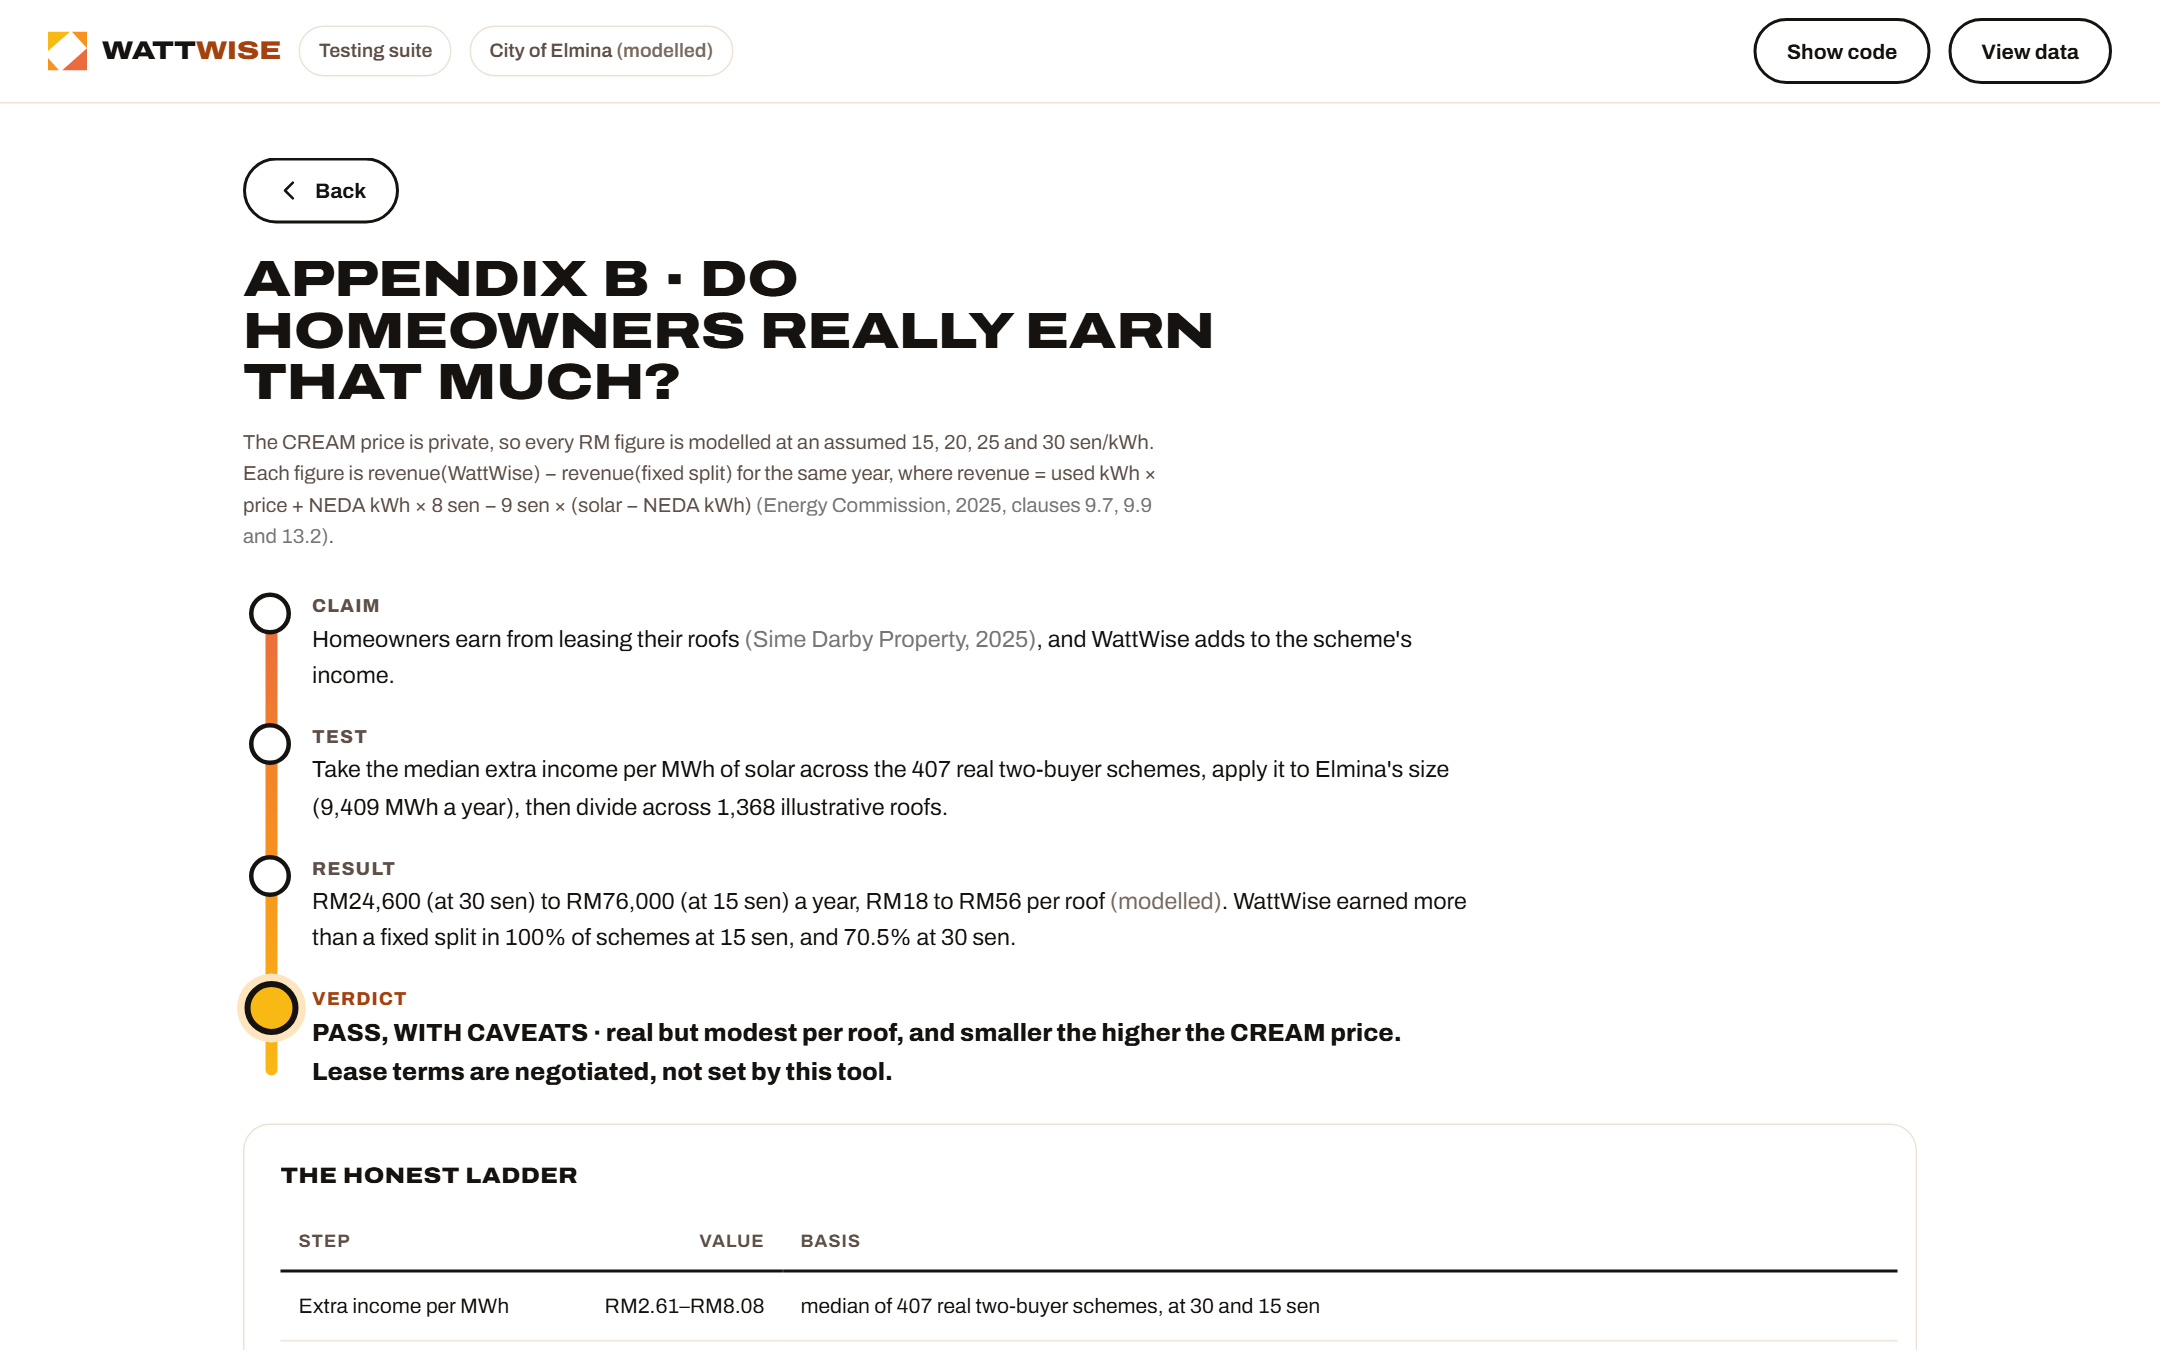
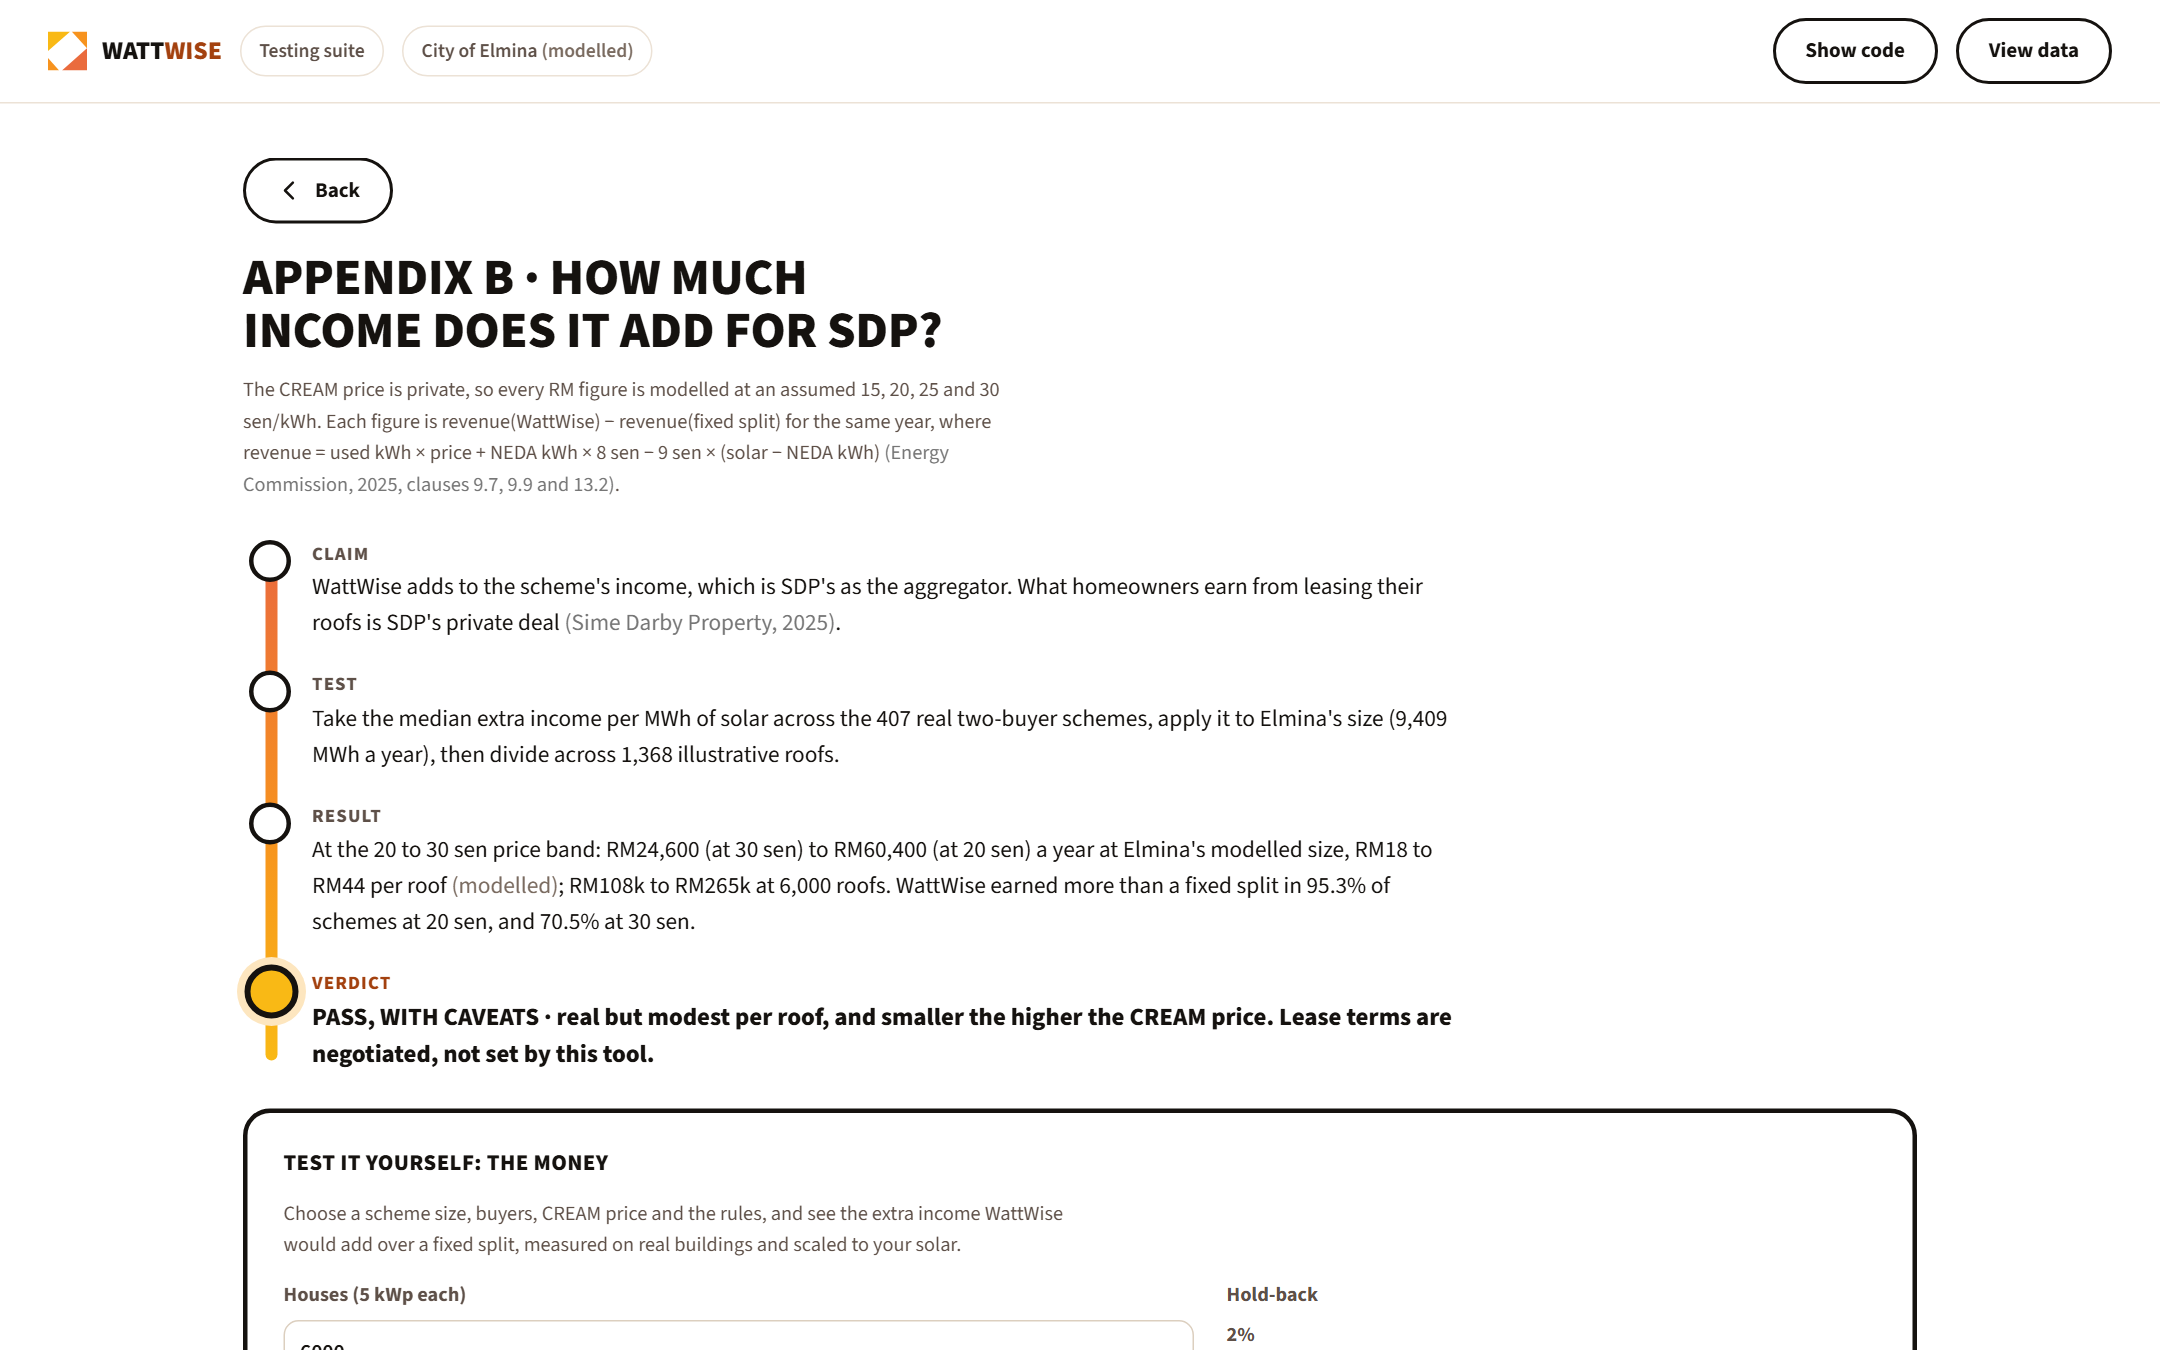
Root README with a Start here table; align testing-suite appendix titles with the deck; refresh screenshots
- README.md now sits at the repo root so GitHub shows it first
- Appendix B (and C, D) titles in the testing suite match the pitch deck; Appendix B no longer says homeowners earn the extra income
- Screenshots retaken with the current fonts and the new Home strip and split review

diff --git a/03 User Interface/tests.html b/03 User Interface/tests.html
@@ -421,17 +421,17 @@
       </button>
       <button class="apx" data-go="b">
         <span class="tag" aria-label="Appendix B">B</span>
-        <span><div class="q">Do homeowners really earn that much?</div>
+        <span><div class="q">How much income does it add for SDP?</div>
         <div class="d">The extra scheme income at each assumed CREAM price, and what it is per roof.</div></span><svg viewBox="0 0 24 24" fill="none" stroke="currentColor" stroke-width="2" stroke-linecap="round" aria-hidden="true"><path d="M9 5l7 7-7 7"/></svg>
       </button>
       <button class="apx" data-go="c">
         <span class="tag" aria-label="Appendix C">C</span>
-        <span><div class="q">Is there really space for 20% more CREAM contributors?</div>
+        <span><div class="q">Will there really be space for 20% more CREAM contributors?</div>
         <div class="d">Build the scheme 1.1&times; and 1.2&times; bigger for the same buyers and replay the year: does give-away stay below a fixed split?</div></span><svg viewBox="0 0 24 24" fill="none" stroke="currentColor" stroke-width="2" stroke-linecap="round" aria-hidden="true"><path d="M9 5l7 7-7 7"/></svg>
       </button>
       <button class="apx" data-go="d">
         <span class="tag" aria-label="Appendix D">D</span>
-        <span><div class="q">Does dynamic splitting beat fixed ones?</div>
+        <span><div class="q">Dynamic splitting works better than fixed ones?</div>
         <div class="d">Win rates vs fixed and vs copy-last-year, across <span data-v="n_buildings">821</span> real buildings and <span data-v="two_n">407</span> two-buyer pairings.</div></span><svg viewBox="0 0 24 24" fill="none" stroke="currentColor" stroke-width="2" stroke-linecap="round" aria-hidden="true"><path d="M9 5l7 7-7 7"/></svg>
       </button>
       <button class="apx" data-go="w">
@@ -624,10 +624,10 @@
   <!-- B: homeowner earnings -->
   <div class="page" id="page-b">
     <button class="btn back" data-go="home"><svg class="chev" viewBox="0 0 24 24" aria-hidden="true"><path d="M15 5l-7 7 7 7"/></svg>Back</button>
-    <h1>Appendix B &middot; Do homeowners really earn that much?</h1>
+    <h1>Appendix B &middot; How much income does it add for SDP?</h1>
     <p class="note">The CREAM price is private, so every RM figure is modelled at an assumed 15, 20, 25 and 30 sen/kWh. Each figure is revenue(WattWise) &minus; revenue(fixed split) for the same year, where revenue = used kWh &times; price + NEDA kWh &times; 8 sen &minus; 9 sen &times; (solar &minus; NEDA kWh) <span class="cite">(Energy Commission, 2025, clauses 9.7, 9.9 and 13.2)</span>.</p>
     <div class="ctr">
-      <div class="row"><b>CLAIM</b><span>Homeowners earn from leasing their roofs <span class="cite">(Sime Darby Property, 2025)</span>, and WattWise adds to the scheme's income.</span></div>
+      <div class="row"><b>CLAIM</b><span>WattWise adds to the scheme's income, which is SDP's as the aggregator. What homeowners earn from leasing their roofs is SDP's private deal <span class="cite">(Sime Darby Property, 2025)</span>.</span></div>
       <div class="row"><b>TEST</b><span>Take the median extra income per MWh of solar across the <span data-v="two_n">407</span> real two-buyer schemes, apply it to Elmina's size (<span data-v="el_mwh">9,409</span> MWh a year), then divide across <span data-v="el_roofs">1,368</span> illustrative roofs.</span></div>
       <div class="row"><b>RESULT</b><span>At the 20 to 30 sen price band: <span data-v="el_gain_30">RM24,600</span> (at 30 sen) to <span data-v="el_gain_20">RM60,400</span> (at 20 sen) a year at Elmina's modelled size, <span data-v="el_roof_30">RM18</span> to <span data-v="el_roof_20">RM44</span> per roof <span class="mod">(modelled)</span>; <span data-v="sc_gain_30">RM108k</span> to <span data-v="sc_gain_20">RM265k</span> at 6,000 roofs. WattWise earned more than a fixed split in <span data-v="two_earns_20">95.3%</span> of schemes at 20 sen, and <span data-v="two_earns_30">70.5%</span> at 30 sen.</span></div>
       <div class="row verdict-row"><b>VERDICT</b><span>PASS, WITH CAVEATS &middot; real but modest per roof, and smaller the higher the CREAM price. Lease terms are negotiated, not set by this tool.</span></div>
@@ -664,7 +664,7 @@
   <!-- C: room for bigger schemes -->
   <div class="page" id="page-c">
     <button class="btn back" data-go="home"><svg class="chev" viewBox="0 0 24 24" aria-hidden="true"><path d="M15 5l-7 7 7 7"/></svg>Back</button>
-    <h1>Appendix C &middot; Space for 20% more CREAM contributors?</h1>
+    <h1>Appendix C &middot; Will there really be space for 20% more CREAM contributors?</h1>
     <div class="ctr">
       <div class="row"><b>CLAIM</b><span>SDP can build schemes 20% larger for the same buyers and still give away less than a fixed split does today.</span></div>
       <div class="row"><b>TEST</b><span>Replay the <span data-v="two_n">407</span> two-buyer schemes with solar sized at 1.0&times;, 1.1&times; and 1.2&times; of the buyers' use. Compare WattWise at each size against today's fixed split at 1.0&times; <span class="cite">(Miller et al., 2020; WattWise, 2026)</span>.</span></div>
@@ -693,7 +693,7 @@
   <!-- D: dynamic vs fixed -->
   <div class="page" id="page-d">
     <button class="btn back" data-go="home"><svg class="chev" viewBox="0 0 24 24" aria-hidden="true"><path d="M15 5l-7 7 7 7"/></svg>Back</button>
-    <h1>Appendix D · Dynamic splitting works better than fixed?</h1>
+    <h1>Appendix D · Dynamic splitting works better than fixed ones?</h1>
     <div class="ctr">
       <div class="row"><b>CLAIM</b><span>Dynamic splitting beats a fixed split.</span></div>
       <div class="row"><b>TEST</b><span>Replay <span data-v="n_buildings">821</span> real buildings as one-buyer schemes, and <span data-v="two_n">407</span> same-site pairs of them, under three policies: fixed, copy-last-year, and WattWise <span class="cite">(Miller et al., 2020; European Commission JRC, 2022)</span>.</span></div>

diff --git a/README.md b/README.md
@@ -2,11 +2,16 @@
 
 WattWise is software that tells Sime Darby Property (SDP) how to share its residents' rooftop solar between the buildings that buy it, four months ahead. It is Team Promax's entry to the Sime Darby Hackathon 2026, "Township of Tomorrow".
 
-The pitch deck is in this folder: [WattWise Pitch Deck.pdf](WattWise%20Pitch%20Deck.pdf) (editable: [WattWise Pitch Deck (final).pptx](WattWise%20Pitch%20Deck%20%28final%29.pptx)).
+## Start here
 
-**Live demo:** [wattwise-promax.netlify.app](https://wattwise-promax.netlify.app) (operator app and testing suite, demo data only).
+| | |
+|---|---|
+| **Live demo** | [wattwise-promax.netlify.app](https://wattwise-promax.netlify.app): the operator app and the testing suite (demo data only) |
+| **Pitch deck** | [WattWise Pitch Deck.pdf](00%20Documents/WattWise%20Pitch%20Deck.pdf) (editable: [.pptx](00%20Documents/WattWise%20Pitch%20Deck%20%28final%29.pptx)) |
+| **Check our numbers** | the [testing suite](https://wattwise-promax.netlify.app/tests.html): Appendices A to D, each with a "Test it yourself" panel and a button that re-runs the replay in your browser |
+| **Re-run from the code** | `python replay.py` in `02 Scheduler Module` (standard Python, about a second) |
 
-![Landing page](screenshots/0-landing.png)
+![Landing page](00%20Documents/screenshots/0-landing.png)
 
 ## The problem
 
@@ -28,7 +33,7 @@ Replayed on real meter readings from 821 buildings, a fixed yearly split gives a
 
 ## Results
 
-One command rebuilds every number below, on the deck and on both web pages: `python replay.py` in `02 Scheduler Module` (standard Python, about a second; `--check` confirms the committed results match). Judges without Python can press **Re-run the replay** in Appendix A of the testing suite: the same rules, ported line for line to `03 User Interface/replay.js`, run in the browser on the same inputs and check every quoted figure. Inputs are public and committed: real monthly electricity from the Building Data Genome Project 2 and rooftop solar at Elmina from PVGIS. How each figure is derived: [docs/evidence-provenance.md](../docs/evidence-provenance.md).
+One command rebuilds every number below, on the deck and on both web pages: `python replay.py` in `02 Scheduler Module` (standard Python, about a second; `--check` confirms the committed results match). Judges without Python can press **Re-run the replay** in Appendix A of the testing suite: the same rules, ported line for line to `03 User Interface/replay.js`, run in the browser on the same inputs and check every quoted figure. Inputs are public and committed: real monthly electricity from the Building Data Genome Project 2 and rooftop solar at Elmina from PVGIS. How each figure is derived: [docs/evidence-provenance.md](docs/evidence-provenance.md).
 
 | Result | Figure | Basis |
 |---|---|---|
@@ -38,7 +43,7 @@ One command rebuilds every number below, on the deck and on both web pages: `pyt
 | Gives away less than copy-last-year | 83.3% of two-buyer schemes (77.2% one-buyer) | measured |
 | Scheme built 1.2x larger | WattWise gives away 2.17%, below a fixed split's 6.05% today; no worse in 94.6% of schemes | measured |
 | Estimate error | median month 7.9%; a buyer's worst month 22.4% (median) | measured |
-| Elmina size (9,409 MWh a year, 6,840 kWp, 1,368 roofs) | 443 MWh a year kept from being given away | benchmark medians applied to the assumed size |
+| Elmina size (9,409 MWh a year, 6,840 kWp, 1,368 roofs) | 443 MWh a year kept from being given away, about 328 tonnes of CO₂e at 0.740 tCO₂e/MWh (Energy Commission, 2026) | benchmark medians applied to the assumed size |
 | Extra scheme income, Elmina size | RM24,600 to RM60,400 a year at 30 to 20 sen/kWh; RM18 to RM44 per roof | modelled; the real CREAM price is private, and below 17 sen NEDA beats selling to a buyer |
 | Floor case: Innovation Park alone | RM6,000 to RM16,100 a year at 30 to 20 sen/kWh | modelled |
 | SDP's 6,000-roof pilot target (41,265 MWh a year, 2 buyers assumed) | RM108k to RM265k a year, 1.4% to 6.6% of scheme income after the access charge | modelled; before roof-lease payments, costs and tax. The number of roofs signed up is not public |
@@ -51,9 +56,9 @@ Honest limits: the extra income shrinks as the CREAM price rises, and above abou
 
 | | |
 |---|---|
-| ![Home](screenshots/prototype-1-home.png) **Home.** What the admin has to do next, and the notice deadline. | ![Allocations](screenshots/prototype-2-allocations.png) **Allocations.** Each month on a five-step line, with its 120-day notice deadline. |
-| ![Engine](screenshots/prototype-3-estimation-engine.png) **Engine.** Same month last year times trend, per buyer, with the hold-back. | ![Notice preview](screenshots/prototype-4-notice-preview.png) **Notice preview.** The email and PDF each buyer would receive, shown before anything is sent. |
-| ![Settlements](screenshots/prototype-5-settlements.png) **Settlements.** A month allocated against what was used. | ![Homes map](screenshots/prototype-6-homes-map.png) **Homes.** CREAM homes on the neighbourhood plan; click one to see its modelled solar. |
+| ![Home](00%20Documents/screenshots/prototype-1-home.png) **Home.** What the admin has to do next, and the notice deadline. | ![Allocations](00%20Documents/screenshots/prototype-2-allocations.png) **Allocations.** Each month on a five-step line, with its 120-day notice deadline. |
+| ![Engine](00%20Documents/screenshots/prototype-3-estimation-engine.png) **Engine.** Same month last year times trend, per buyer, with the hold-back. | ![Notice preview](00%20Documents/screenshots/prototype-4-notice-preview.png) **Notice preview.** The email and PDF each buyer would receive, shown before anything is sent. |
+| ![Settlements](00%20Documents/screenshots/prototype-5-settlements.png) **Settlements.** A month allocated against what was used. | ![Homes map](00%20Documents/screenshots/prototype-6-homes-map.png) **Homes.** CREAM homes on the neighbourhood plan; click one to see its modelled solar. |
 
 ## The testing suite (for judges)
 
@@ -61,15 +66,15 @@ Honest limits: the extra income shrinks as the CREAM price rises, and above abou
 
 | | |
 |---|---|
-| ![Home](screenshots/testing-1-home.png) **Start here.** The headline result and the four appendices. | ![How the estimate works](screenshots/testing-2-how-the-estimate-works.png) **How the estimate works.** A live worked example: estimate, share, hold-back, settle. |
-| ![Appendix B](screenshots/testing-3-appendix-b-money.png) **Appendix B.** The money, step by step, at the assumed price band. | ![Watch the replay run](screenshots/testing-4-watch-the-replay-run.png) **Watch the replay run.** Step one real scheme through the code month by month: the lit lines of `replay.py`, the numbers going in, and a graph of each step. |
-| ![All schemes](screenshots/testing-5-all-schemes-median.png) **All schemes.** The last step adds up every real scheme into the headline median. | |
+| ![Home](00%20Documents/screenshots/testing-1-home.png) **Start here.** The headline result and the four appendices. | ![How the estimate works](00%20Documents/screenshots/testing-2-how-the-estimate-works.png) **How the estimate works.** A live worked example: estimate, share, hold-back, settle. |
+| ![Appendix B](00%20Documents/screenshots/testing-3-appendix-b-money.png) **Appendix B.** The money, step by step, at the assumed price band. | ![Watch the replay run](00%20Documents/screenshots/testing-4-watch-the-replay-run.png) **Watch the replay run.** Step one real scheme through the code month by month: the lit lines of `replay.py`, the numbers going in, and a graph of each step. |
+| ![All schemes](00%20Documents/screenshots/testing-5-all-schemes-median.png) **All schemes.** The last step adds up every real scheme into the headline median. | |
 
 Every appendix has a **Test it yourself** panel: paste your own buyers' monthly use (Appendix A), or choose the number of houses, buyers, CREAM price, hold-back and scheme size (B, C, D), and the replay runs on your inputs in the browser. Appendix A tests fixed vs WattWise across the 407 two-buyer schemes (with one shown month by month at Elmina size), B the income, C whether a scheme can be built 20% larger, and D dynamic splitting against fixed and copy-last-year across the 821 buildings.
 
 ## Repository layout
 
-- `00 Documents/`: this README, the pitch deck, screenshots, and the documentation log
+- `00 Documents/`: the pitch deck (PDF and editable PPTX), the screenshots used here, and the documentation log
 - `01 Prediction Module/`, `04 Physical Kit/`: earlier building-side experiments, not part of WattWise
 - `02 Scheduler Module/`: `replay.py` (every number), `build_inputs.py`, the committed inputs in `data/` and the results in `results/`
 - `03 User Interface/`: `admin.html` (prototype), `tests.html` (testing suite), `PRODUCT.md` and `DESIGN.md`
